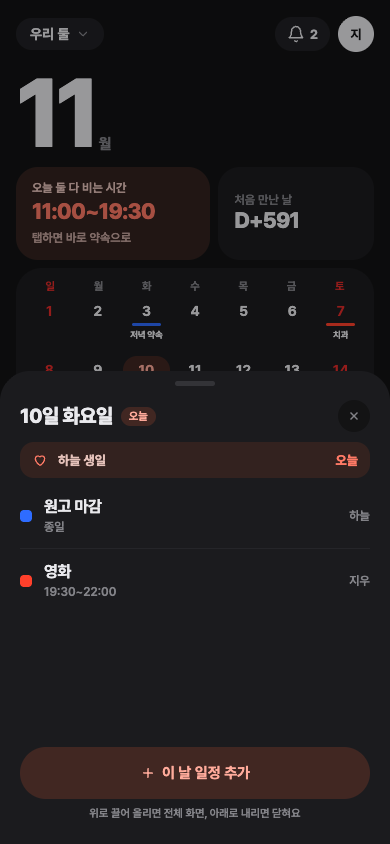
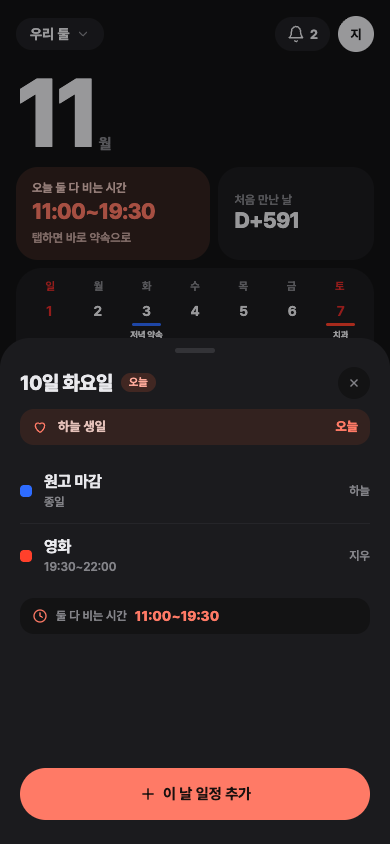
docs: 날짜 탭 = 그날 상세 먼저(폰 시트, 넓은 화면 팝오버) 시안 추가 (#99)
- 어떤 날짜든 탭하면 그날 상세(일정, 기념일, 비는 시간 힌트, 이 날 일정 추가)를 먼저 띄우고 같은 자리에서 빠른 추가로 전환
- phone 은 바텀 시트, fold/pc 는 날짜 칸 옆 팝오버. 오른쪽 칸은 개요로 바꾸는 안을 권장
- 열림 상태를 pushState 로 쌓아 뒤로가기로 닫는 규칙 (#81 과 공존)
- 시안: phone 일정/빈 날/빠른 추가 라이트/다크, 넓은 화면 일정/빈 날/빠른 추가, PC

diff --git a/docs/설계/img/폴더블-시안.html b/docs/설계/img/폴더블-시안.html
@@ -1,6 +1,6 @@
 <!doctype html><html lang="ko"><head><meta charset="utf-8"><meta name="viewport" content="width=device-width,initial-scale=1">
 <title>폴더블 시안</title>
-<!-- #99 폴더블(펼친 화면 600~1023px) 시안. 주소 해시로 프레임 선택: #duo-cal, #duo-detail, #duo-free, #duo-form, #fold-cal (+ ?dark) -->
+<!-- #99 폴더블 시안. ?f= 로 프레임 선택: duo-cal, duo-detail, duo-free, duo-form, fold-cal, phone-sheet|empty|add, wide-day|empty|add, pc-day (+ &dark) -->
 <link rel="stylesheet" href="https://cdn.jsdelivr.net/gh/orioncactus/pretendard@v1.3.9/dist/web/variable/pretendardvariable-dynamic-subset.min.css">
 <style>
 :root{--bg:#F4F3F1;--tile:#FFFFFF;--ink:#26252A;--mute:#6C6C70;--soft:#555;--faint:#C7C7CC;--line:#ECEBE8;--acc:#FF3D1F;
@@ -119,6 +119,29 @@ html.dark .ph .bell{background:rgba(40,40,46,.8)}.ph .bell svg{width:18px;height
 .sheet .sh{display:flex;align-items:center;gap:8px}.sheet .sh h4{font-size:20px;font-weight:800;letter-spacing:-.03em}
 .sheet .x{margin-left:auto;width:32px;height:32px;border-radius:50%;background:var(--bg);display:grid;place-items:center;font-size:16px;color:var(--mute)}
 .sheet .hint{font-size:11px;color:var(--mute);font-weight:600;text-align:center;margin-top:8px}
+/* 날짜 상세 공통 (시트, 팝오버) */
+.dhead{display:flex;align-items:center;gap:8px}.dhead h4{font-size:20px;font-weight:800;letter-spacing:-.03em}
+.xbtn{margin-left:auto;width:32px;height:32px;border-radius:50%;background:var(--bg);display:grid;place-items:center;color:var(--mute)}.xbtn svg{width:16px;height:16px}
+.fh{display:flex;align-items:center;gap:8px;background:var(--bg);border-radius:14px;padding:10px 12px;font-size:12px;font-weight:600;color:var(--mute)}
+.fh b{color:var(--hl-time);font-size:14px;font-weight:800}.fh svg{width:16px;height:16px;color:var(--hl-time)}
+.empty{flex:1;display:flex;flex-direction:column;align-items:center;justify-content:center;gap:8px;text-align:center;padding:10px 0;color:var(--mute);font-size:13px;font-weight:600}
+.empty .ring{width:52px;height:52px;border-radius:50%;background:var(--today-bg);color:var(--sel-ink);display:grid;place-items:center}.empty .ring svg{width:24px;height:24px}
+.empty b{color:var(--ink);font-size:16px;font-weight:800;letter-spacing:-.02em}
+.addp{height:52px;flex:none;border-radius:999px;background:var(--btn);color:var(--on-btn);font-size:15px;font-weight:700;display:flex;align-items:center;justify-content:center;gap:6px;margin-top:auto}.addp svg{width:18px;height:18px}
+.qin{height:52px;border-radius:14px;background:var(--bg);display:flex;align-items:center;padding:0 14px;font-size:17px;font-weight:700;color:var(--ink);border:2px solid var(--pri)}
+.qin i{width:2px;height:20px;background:var(--pri);margin-left:2px}
+.qrow{display:flex;justify-content:space-between;align-items:center;font-size:14px;font-weight:700;padding:4px 2px}
+.qrow .tgl{width:44px;height:26px;border-radius:999px;background:var(--faint);position:relative}.qrow .tgl:after{content:"";position:absolute;left:3px;top:3px;width:20px;height:20px;border-radius:50%;background:#fff}
+.qt{display:grid;grid-template-columns:1fr auto 1fr;gap:6px;align-items:center;color:var(--mute)}.qt span{background:var(--bg);border-radius:14px;padding:12px;font-size:15px;font-weight:800;color:var(--ink);text-align:center}.qt svg{width:16px;height:16px}
+.qbtn{display:flex;gap:6px;margin-top:auto}.qbtn span{height:52px;border-radius:999px;display:grid;place-items:center;font-size:15px;font-weight:700;flex:1;background:var(--bg)}.qbtn .p{flex:1.6;background:var(--btn);color:var(--on-btn)}
+.pop{position:fixed;width:340px;background:var(--tile);border:1px solid var(--line);border-radius:26px;box-shadow:0 12px 40px rgba(38,37,42,.16);padding:16px 18px 18px;display:flex;flex-direction:column;gap:10px;z-index:5}
+html.dark .pop{box-shadow:0 12px 40px rgba(0,0,0,.5)}
+.pop .ev{padding:10px 0}.pop .an{margin-top:0}
+.d.ring2{outline:2px solid var(--pri);outline-offset:-2px}
+.up{display:flex;gap:10px;align-items:center;padding:10px 0;border-top:1px solid var(--line)}.up.f{border-top:0}
+.up .dt{width:38px;text-align:center;font-size:11px;color:var(--mute);font-weight:700;line-height:1.2}.up .dt b{display:block;font-size:17px;color:var(--ink);font-weight:800}
+.up i{width:10px;height:10px;border-radius:3px;flex:none}.up .nm{font-size:14px;font-weight:700}.up .nm small{display:block;font-size:11px;color:var(--mute);font-weight:600}
+.sheet .an{margin-top:0}
 /* 표시 */
 .dim{position:fixed;inset:0;pointer-events:none}
 </style></head><body>
@@ -172,15 +195,50 @@ if(F==='duo-cal'||F==='duo-detail'){
 <div class="tile fc"><div class="tg" style="border:0;padding:0">종일<i></i></div><span class="lb">시작</span><div class="trow"><span class="box">11월 10일 (화)</span><span class="box">오전 10:00</span></div>
 <span class="lb">종료</span><div class="trow"><span class="box">11월 10일 (화)</span><span class="box">오전 11:00</span></div><span class="save" style="margin-top:8px">저장</span></div></div></div>`;
 }
-if(F==='phone-sheet'){
-  const app=document.getElementById('app');app.className='ph';
+const X=I.plus.replace('<svg','<svg style="transform:rotate(45deg)"');
+const evRows=`<div><div class="ev first"><i style="background:var(--m2)"></i><div><b>원고 마감</b><span>종일</span></div><span class="who">하늘</span></div>
+<div class="ev"><i style="background:var(--m1)"></i><div><b>영화</b><span>19:30~22:00</span></div><span class="who">지우</span></div></div>`;
+const freeHint=(t)=>`<div class="fh">${I.clock}둘 다 비는 시간 <b>${t}</b></div>`;
+// state: day(일정 있는 날) | empty(빈 날) | add(같은 자리에서 빠른 추가로 바뀜)
+function dayBody(state){
+  if(state==='day') return `<div class="dhead"><h4>10일 화요일</h4><span class="badge">오늘</span><span class="xbtn">${X}</span></div>${anniv}${evRows}${freeHint('11:00~19:30')}<span class="addp">${I.plus}이 날 일정 추가</span>`;
+  if(state==='empty') return `<div class="dhead"><h4>12일 목요일</h4><span class="xbtn">${X}</span></div>${freeHint('09:00~14:00, 16:00~')}<div class="empty"><span class="ring">${I.cal}</span><b>아직 일정이 없어요</b>이 날 함께할 일을 바로 적어 보세요</div><span class="addp">${I.plus}이 날 일정 추가</span>`;
+  return `<div class="dhead"><span class="back">${I.l}</span><h4>12일 목요일에 추가</h4><span class="xbtn">${X}</span></div>
+  <div class="qin">저녁 산책<i></i></div><div class="qrow">종일<span class="tgl"></span></div>
+  <div class="qt"><span>오후 4:00</span>${I.arr}<span>오후 6:00</span></div><div class="qbtn"><span>자세히</span><span class="p">저장</span></div>`;
+}
+const app=document.getElementById('app');
+if(F.startsWith('phone-')){
+  const st=F.slice(6);
+  const state=st==='sheet'?'day':st;
+  app.className='ph';
   app.innerHTML=`<div class="ptop"><span class="pill">우리 둘 ${I.down}</span><span style="display:flex;gap:8px;align-items:center"><span class="bell">${I.bell}2</span><span class="av" style="margin:0">지</span></span></div>
   <div class="bigm"><b>11</b><span>월</span></div><div class="tiles">${hl}${dd}</div>${grid()}
   <div class="scrim"></div>
-  <div class="sheet" role="dialog"><div class="grab"></div><div class="sh"><h4>10일 화요일</h4><span class="badge">오늘</span><span class="x">${I.plus.replace('<svg','<svg style="width:16px;height:16px;transform:rotate(45deg)"')}</span></div>
-  ${anniv}
-  <div class="ev first" style="margin-top:6px"><i style="background:var(--m2)"></i><div><b>원고 마감</b><span>종일</span></div><span class="who">하늘</span></div>
-  <div class="ev"><i style="background:var(--m1)"></i><div><b>영화</b><span>19:30~22:00</span></div><span class="who">지우</span></div>
-  <span class="add" style="height:52px;font-size:15px">${I.plus}이 날 일정 추가</span><div class="hint">위로 끌어 올리면 전체 화면, 아래로 내리면 닫혀요</div></div>`;
-}else document.getElementById('app').innerHTML=rail+main;
+  <div class="sheet" role="dialog" style="gap:10px;height:${state==='day'?'60%':'54%'}"><div class="grab" style="margin-bottom:4px"></div>${dayBody(state)}</div>`;
+}else if(F.startsWith('wide-')||F.startsWith('pc-')){
+  const state=F.split('-')[1];
+  const isPc=F.startsWith('pc-');
+  const overview=`<div class="tile day"><h4>다가오는 일정</h4>
+  <div class="up f" style="margin-top:4px"><span class="dt">수<b>11</b></span><i style="background:var(--m1)"></i><span class="nm">부모님 댁<small>종일, 지우</small></span></div>
+  <div class="up"><span class="dt">금<b>13</b></span><i style="background:var(--m2)"></i><span class="nm">요가<small>07:00~08:00, 하늘</small></span></div>
+  <div class="up"><span class="dt">화<b>24</b></span><i style="background:var(--m1)"></i><span class="nm">제주 여행<small>24일~26일, 지우</small></span></div>
+  <h4 style="margin-top:12px">이번 주 빈 시간</h4>${['수 11/11 09:00~23:00','목 11/12 09:00~14:00'].map(t=>`<div class="sl" style="margin-top:8px"><b style="font-size:14px">${t}</b></div>`).join('')}</div>`;
+  const side=isPc?`<aside class="rail" style="align-items:stretch;padding:26px 16px;gap:6px"><div style="display:flex;gap:10px;align-items:center;font-weight:800;font-size:18px;padding:0 8px 22px"><div class="sym" style="margin:0"><i></i><i></i><i></i></div>언제볼까</div>
+  ${[['cal','달력',1],['clock','빈 시간 찾기'],['heart','기념일'],['bell','새 소식'],['team','팀 설정']].map(([k,t,on])=>`<span style="display:flex;gap:10px;align-items:center;padding:10px 12px;border-radius:14px;font-size:14px;font-weight:600;${on?'background:var(--tile)':''}">${I[k].replace('<svg','<svg style="width:18px;height:18px"')}${t}</span>`).join('')}
+  <span class="av" style="margin-top:auto">지</span></aside>`:rail;
+  if(isPc)app.style.gridTemplateColumns='232px minmax(0,1fr)';
+  app.innerHTML=side+`<div class="body"${isPc?' style="padding:26px 22px 22px 0"':''}>${topBar(monthNav)}<div class="panes" style="--pane:${isPc?'320px':'300px'}">${isPc?gridChips():grid()}<div class="pane">${hl}${overview}</div></div></div>`;
+  const dayN=state==='day'?10:12;
+  const cell=[...document.querySelectorAll('.cal .grid .d')][dayN-1];
+  cell.classList.add('ring2');
+  const r=cell.getBoundingClientRect();
+  const pop=document.createElement('div');pop.className='pop';pop.setAttribute('role','dialog');
+  pop.innerHTML=dayBody(state).replace('class="empty"','class="empty" style="flex:none;padding:18px 0"');document.body.appendChild(pop);
+  pop.querySelectorAll('.addp,.qbtn').forEach(e=>e.style.marginTop='4px');
+  const h=pop.offsetHeight;
+  let left=r.right+8;if(left+340>innerWidth-8)left=r.left-8-340;
+  const top=Math.max(12,Math.min(r.top-10,innerHeight-12-h));
+  pop.style.left=left+'px';pop.style.top=top+'px';
+}else app.innerHTML=rail+main;
 </script></body></html>

diff --git a/docs/설계/폴더블.md b/docs/설계/폴더블.md
@@ -1,8 +1,8 @@
-# 폴더블 레이아웃 (펼친 화면 2단, 폰 날짜 시트)
+# 폴더블 레이아웃 (펼친 화면 2단, 날짜 탭 = 그날 상세)
 
 - 이슈: #99
 - 상태: **제안 (미확정)**. 사용자에게 시안을 보이고 확정한 뒤 프론트 구현
-- 시안: `docs/설계/img/폴더블-시안.html` (`?f=duo-cal|duo-detail|duo-free|duo-form|fold-cal|phone-sheet`, `&dark`)
+- 시안: `docs/설계/img/폴더블-시안.html` (`?f=` 로 프레임 선택: `wide-day|wide-empty|wide-add|pc-day|phone-sheet|phone-empty|phone-add|duo-cal|duo-detail|duo-free|duo-form|fold-cal`, `&dark`)
 - 현재 화면 캡처: `docs/QA/img/fold-before-*.png`, 시안 렌더: `docs/설계/img/fold-proposal-*.png`
 
 ## 1. 대상 기기와 CSS 뷰포트
@@ -34,13 +34,13 @@ CSS 뷰포트는 제조사가 공개하지 않는다. 아래는 공개 해상도
 | P4 | 일정 작성 | 메모, 저장 버튼이 탭과 + 버튼 밑으로 숨는다. 작성 화면에서도 + 버튼이 떠 있다 | `fold-before-duo-open-form.png` |
 | P5 | 빈 시간 찾기 | 조건 카드와 결과가 한 줄로 쌓여 결과가 첫 화면에 거의 안 보인다 (폴드 세로는 높이 덕에 보이지만 좌우가 빔) | `fold-before-fold-open-free.png` |
 | P6 | 폴드 가로 1092 | PC 배치로 넘어가 동작은 하지만 사이드바 232 + 우측 320 을 빼면 달력이 500px 정도라 칩 제목이 "저...", "치..." 로 잘린다 | `fold-before-fold-open-land-calendar-light.png` |
-| P7 | 커버 화면 (412~475) | 지금 모바일 배치 그대로라 문제 없다. 다만 날짜 목록이 달력 아래에 있어 스크롤해야 보인다 (5장 날짜 시트로 해결) | `fold-before-fold-cover-*.png`, `fold-before-duo-cover-*.png` |
+| P7 | 커버 화면 (412~475) | 지금 모바일 배치 그대로라 문제 없다. 다만 날짜 목록이 달력 아래에 있어 스크롤해야 보인다 (5장 날짜 상세 시트로 해결) | `fold-before-fold-cover-*.png`, `fold-before-duo-cover-*.png` |
 
 ## 3. 브레이크포인트
 
 | 이름 | 조건 | 배치 | 해당 기기 |
 |------|------|------|----------|
-| phone | `<600px` | 지금 모바일 그대로 + **날짜 바텀 시트**(5) | 폰, 폴드 커버, 아이폰 듀오 커버 |
+| phone | `<600px` | 지금 모바일 그대로 + **날짜 상세 바텀 시트**(5) | 폰, 폴드 커버, 아이폰 듀오 커버 |
 | fold (신설) | `600px ≤ w < 1024px` | **레일 + 2단** (4) | 폴드 펼침 세로, 폴드8 펼침, 아이폰 듀오 펼침(가로, 세로) |
 | pc | `≥1024px` | 지금 PC 그대로 | PC, 폴드 펼침 가로, 트라이폴드 |
 
@@ -58,15 +58,15 @@ CSS 뷰포트는 제조사가 공개하지 않는다. 아래는 공개 해상도
 - 선택 항목은 아이콘 뒤에 `--tile` 알약 (52×32). 아이콘 20px, 글자 10.5px 700 (떠 있는 탭과 같은 크기)
 - 떠 있는 탭과 + 버튼은 숨긴다 (P2, P4 해결). 본문 하단 여백도 탭 높이만큼 두지 않는다
 - 상단 줄: 팀 이름 알약(팀 전환 시트 그대로) + 화면 제목 또는 월 표시. 새 소식 알약과 프로필은 레일로 옮겼으니 상단에서 뺀다
-- PC 사이드바는 ≥1024 에서 그대로. 1024~1199 에서도 레일을 쓸지는 열린 질문 Q3 (P6)
+- PC 사이드바는 ≥1024 에서 그대로. 1024~1199 에서도 레일을 쓸지는 열린 질문 Q4 (P6)
 
 ### 4-2 달력
 - 상단 줄: 팀 알약, 월 숫자 44px(`.82` 행간) + "월 2026", 오른쪽 오늘 / ◀ ▶
-- 2단: 왼쪽 달력 타일(남는 폭 전부, 6주 그리드가 높이를 채움) | 오른쪽 칸 332px (폭 ≥ 960 이면 360px)
-- 오른쪽 칸 위에서부터: 오늘 비는 시간 타일, D-day 타일(`short` 이면 숨김), **선택 날짜 칸**(5-2 와 같은 내용: 기념일 줄, 일정 목록, "이 날 일정 추가")
+- 2단: 왼쪽 달력 타일(남는 폭 전부, 6주 그리드가 높이를 채움) | 오른쪽 칸 300px (폭 ≥ 960 이면 340px)
+- 오른쪽 칸은 **개요**: 오늘 비는 시간 타일, 다가오는 일정 3~5건, 이번 주 빈 시간 2~3줄. 선택 날짜 내용은 칸에 두지 않고 날짜 팝오버(5장)로 보여 준다 (권장안 A, 5-1)
+- `short` 가 아니고 높이가 남으면(폴드 세로) D-day 타일을 개요 맨 위에 둔다
 - 날짜 칸 모양: 칸 높이 < 110px 이면 모바일처럼 막대 + 9px 제목, ≥ 110px(폴드 세로) 이면 PC 처럼 제목 칩. 칸 높이는 그리드가 정하므로 `@container` 쿼리로 고른다
-- 일정 행을 누르면 오른쪽 칸이 **일정 상세**로 바뀐다 (뒤로 화살표로 날짜 칸 복귀). 모달 없음 (P3). 시안 `fold-proposal-duo-detail-light.png`, `-dark.png`
-- 빈 날짜 칸 재탭 빠른 추가: PC 처럼 칸 옆 팝오버 340px (`QuickAddPopover`). 890 폭에서도 들어간다
+- 시안: `fold-proposal-wide-day-light.png`, `-dark.png` (권장안 A). `fold-proposal-duo-cal-*.png`, `fold-proposal-fold-cal-*.png`, `fold-proposal-duo-detail-*.png` 는 대안 B(팝오버 없이 오른쪽 칸이 선택 날짜와 상세를 보여 줌)
 
 ### 4-3 빈 시간 찾기
 - 2단 같은 폭: 왼쪽 조건 카드(위에 붙음), 오른쪽 결과 목록(칸 안에서 스크롤). 시안 `fold-proposal-duo-free-light.png` (P5)
@@ -78,39 +78,57 @@ CSS 뷰포트는 제조사가 공개하지 않는다. 아래는 공개 해상도
 ### 4-5 기념일, 새 소식, 팀 설정, 내 정보
 - 레일만 적용하고 본문은 가운데 640px 1단. 2단으로 나눌 내용이 없다
 
-## 5. 날짜 탭 = 그날 상세 (모든 폭)
+## 5. 날짜 탭 = 그날 상세 먼저 (모든 폭)
 
-사용자 요청: 달력에서 날짜를 누르면 그날의 일정, 기념일, "이 날 일정 추가" 를 보여 주고, 일정을 누르면 일정 상세로.
+사용자 요청: 달력에서 **어떤 날짜든**(빈 날 포함, PC와 펼친 화면 포함) 누르면 바로 빠른 추가로 가지 않고 먼저 그날의 상세를 띄운다. 상세에는 그날 일정, 기념일, 비는 시간 힌트, "이 날 일정 추가" 가 있고, 추가를 누르면 **같은 자리에서** 빠른 추가 폼으로 바뀐다. 일정을 누르면 같은 자리에서 일정 상세로.
 
-### 5-1 폭별 동작
-| 배치 | 날짜 탭 | 일정 탭 | 이 날 일정 추가 |
-|------|--------|--------|----------------|
-| phone | **날짜 바텀 시트** 열기 | 시트 안에서 상세로 전환 (시트 유지, 뒤로 화살표) | 시트 안 버튼 → 빠른 추가 시트 (`QuickAddSheet`) |
-| fold | 선택만 바꾸고 오른쪽 칸 갱신. 모달 없음 | 오른쪽 칸이 상세로 | 칸 안 버튼 → 빠른 추가 팝오버 |
-| pc | 지금 그대로 (선택 + 빈 곳 클릭 팝오버, 우측 패널) | 지금 그대로 | 지금 그대로 |
+### 5-1 폭별 표면과 오른쪽 칸 처리
+| 배치 | 날짜 탭 | 표면 | 오른쪽 칸 |
+|------|--------|------|----------|
+| phone (<600, 커버 포함) | 날짜 상세 | **바텀 시트** (반 높이, 끌어 올리면 전체) | 없음. 달력 아래 날짜 목록도 없앤다 |
+| fold (600~1023) | 날짜 상세 | **날짜 칸 옆 팝오버** 340px (#46 빠른 추가 팝오버 자리 규칙과 모양 재사용) | 개요 (다가오는 일정, 이번 주 빈 시간) |
+| pc (≥1024) | 날짜 상세 | 같은 팝오버 | 개요 |
 
-- phone 에서 지금의 "선택된 날짜 재탭 = 빠른 추가 시트" 는 없어진다. 추가는 시트 안 버튼이나 + 버튼으로 (열린 질문 Q1)
-- phone 의 달력 아래 날짜 목록은 없앤다. 달력 화면이 한 화면에 들어간다
+**권장안 A: 오른쪽 칸은 개요로 바꾸고 날짜 내용은 팝오버에만 둔다.**
+- 이유 1: 칸과 팝오버가 같은 날짜 목록을 동시에 보여 주면 중복이고, 어느 쪽을 봐야 하는지 흐려진다
+- 이유 2: 탭하면 바로 그 자리에 뜨는 표면이 모든 폭에서 같아진다 (폰 시트 = 넓은 화면 팝오버, 내용과 순서 동일). 구현도 `DayPanel` 한 컴포넌트를 시트와 팝오버에 꽂으면 된다
+- 이유 3: 칸이 날짜에 묶이지 않으면 "다가오는 일정" 처럼 달력에서 안 보이는 정보를 줄 수 있다
+- 대안 B (팝오버 없이 칸만): 모달이 없어 가볍지만, 사용자가 원한 "누르면 그날 상세가 뜬다" 와 폰과의 일관성을 잃는다. B 를 고르면 시안 `fold-proposal-duo-cal-*.png` 그대로
 
-### 5-2 바텀 시트 (phone)
-시안: `fold-proposal-phone-sheet-light.png`, `-dark.png` (390×844)
+### 5-2 상세 내용과 상태 (시트, 팝오버 공통 `DayPanel`)
+| 상태 | 내용 | 시안 |
+|------|------|------|
+| 일정 있는 날 | 머리 "10일 화요일" + 오늘 배지 + 닫기, 기념일 줄(옅은 코랄 `--hl-tile`, 하트 선 아이콘, "오늘" 또는 "D-3"), 일정 행(멤버 색 + 제목 + 시간 + 등록자), 비는 시간 힌트 한 줄, 하단 주 버튼 "이 날 일정 추가"(`--btn`, 52px) | phone `fold-proposal-phone-sheet-light.png` `-dark.png`, 넓은 화면 `fold-proposal-wide-day-light.png` `-dark.png`, PC `fold-proposal-pc-day-light.png` |
+| 빈 날 | 머리, 비는 시간 힌트, 가운데 빈 상태(코랄 원 + 달력 선 아이콘, "아직 일정이 없어요", "이 날 함께할 일을 바로 적어 보세요"), 같은 주 버튼 | `fold-proposal-phone-empty-light.png` `-dark.png`, `fold-proposal-wide-empty-light.png` |
+| 빠른 추가 | 같은 표면이 바뀐다: 머리 "← 12일 목요일에 추가", 제목 입력(자동 포커스), 종일 토글, 시작 → 종료, "자세히" + "저장". 뒤로 화살표는 날짜 상세로. 필드와 저장 동작은 #46 `QuickAdd` 그대로 | `fold-proposal-phone-add-light.png` `-dark.png`, `fold-proposal-wide-add-light.png` |
+| 일정 상세 | 일정 행을 누르면 같은 표면이 일정 상세(지금 상세와 같은 내용: 등록자, 제목, 시간, 수정/복제/삭제)로 바뀐다. 뒤로 화살표는 날짜 상세로 | 내용은 `fold-proposal-duo-detail-*.png` 와 같고 표면만 시트/팝오버 |
 
+- 비는 시간 힌트: 팀 멤버가 2명 이상일 때만. 그날 하루 `free-slots`(09:00~23:00, 최소 1시간) 1회 호출, 300ms 지연 없이 열 때 시작, 오는 동안 한 줄 스켈레톤, 실패하면 줄을 숨긴다(오류 문구 없음). 오늘은 달력 위 타일이 이미 가진 값을 재사용
+- 일정 칩(PC, 폴드 세로)을 누르면 팝오버가 일정 상세 상태로 바로 열린다 (뒤로 = 그날 상세). 지금처럼 오른쪽 칸에 상세를 띄우지 않는다
+- + 버튼(떠 있는 + / 레일 + / PC "일정 추가")은 지금처럼 새 일정 폼으로 바로 간다 (날짜 상세를 거치지 않음)
+
+### 5-3 바텀 시트 (phone)
 | 항목 | 내용 |
 |------|------|
-| 내용 | 머리 "10일 화요일" + 오늘 배지 + 닫기, 기념일 줄(옅은 코랄 `--hl-tile`, 하트 선 아이콘, "D-day" 또는 "오늘"), 일정 행(지금 목록과 같은 모양), 하단 "이 날 일정 추가" 52px 알약(`--today-bg`). 빈 날은 기존 빈 상태 문구 |
-| 높이 | 처음 열 때 화면의 56% (반), 손잡이를 위로 끌면 전체(위 여백 = safe-area + 12px), 아래로 끌거나 배경 탭하면 닫힘. 내용이 반 높이를 넘으면 시트 안 스크롤 |
-| 모양 | 위 모서리 30px, `--tile`, 배경 `rgba(0,0,0,.35)`, 손잡이 40×5 `--faint`. 모션 200ms (`prefers-reduced-motion` 이면 즉시) |
-| 접근성 | `role=dialog` `aria-modal` + 제목 연결, 열면 제목에 포커스, Tab 은 시트 안에서 돈다, Esc 닫기, 닫으면 누른 날짜 칸으로 포커스 복귀. 끌기 대신 쓸 수 있게 "전체 보기" 는 손잡이 버튼(`aria-expanded`)으로도 |
-| 시트 안 이동 | 일정 행 → 같은 시트 안에서 상세로 바뀜(뒤로 화살표). 상세의 수정/복제는 지금처럼 페이지 이동 |
+| 높이 | 처음 화면의 약 56~60% (반), 손잡이를 위로 끌면 전체(위 여백 = safe-area + 12px), 아래로 끌거나 배경 탭하면 닫힘. 내용이 넘치면 시트 안 스크롤. 빠른 추가 상태에서 키보드가 올라오면 `visualViewport` 높이에 맞춰 주 버튼이 키보드 위에 남는다 |
+| 모양 | 위 모서리 30px, `--tile`, 배경 `rgba(0,0,0,.35)`, 손잡이 40×5 `--faint`. 상태 전환은 내용만 120ms 교차 페이드, 시트 높이 변화 200ms (`prefers-reduced-motion` 이면 즉시) |
+| 접근성 | `role=dialog` `aria-modal` + 제목 연결, 열면 제목에(빠른 추가는 입력에) 포커스, Tab 은 시트 안에서 돈다, Esc 닫기, 닫으면 누른 날짜 칸으로 포커스 복귀. 끌기 대신 손잡이 버튼(`aria-expanded`)으로도 전체/반 전환 |
 
-### 5-3 뒤로가기와 주소 (#81 과의 관계)
+### 5-4 팝오버 (fold, pc)
+- 위치: #46 `QuickAddPopover` 규칙 그대로. 날짜 칸 오른쪽 8px, 자리가 없으면 왼쪽, 위아래는 화면 안으로 밀어 넣음. 폭 340px, 모서리 26px, `--line` 테두리 + `--pop-shadow`. 누른 날짜 칸에 `--pri` 2px 테두리
+- 배경을 어둡게 하지 않는다(비모달처럼 보이되 포커스는 가둠). 바깥 클릭, Esc 로 닫고 날짜 칸으로 포커스 복귀. 다른 날짜 칸을 누르면 닫고 그 날짜로 다시 연다
+- 상태 전환(날짜 → 빠른 추가, 날짜 → 일정 상세)은 팝오버 안에서. 높이가 바뀌면 위치를 다시 계산
+- 폭이 바뀌어(접기) phone 이 되면 같은 상태를 바텀 시트로 옮긴다
+
+### 5-5 뒤로가기와 주소 (#81 과의 관계)
 - 지금: 선택 날짜는 `?date=`(오늘이면 생략), 보던 달은 `?month=` 를 `history.replaceState` 로 남긴다 (#81). 이 규칙은 그대로 둔다
-- 시트를 열 때 **`history.pushState`** 로 `?date=YYYY-MM-DD&day=1` 한 칸을 쌓는다. 상세로 들어가면 `&event=<id>` 를 한 칸 더 쌓는다
-- `popstate` 에서 주소의 `day`, `event` 로 시트 상태를 맞춘다. 안드로이드 뒤로 버튼과 iOS 뒤로 쓸기 = 상세 → 날짜 시트 → 닫힘 순서
-- 닫기 버튼, 배경 탭, 아래로 끌기, Esc 는 직접 상태를 바꾸지 않고 `history.back()` 을 부른다 (쌓은 칸을 지워 앞으로가기에 유령 상태가 남지 않게). 시트가 쌓은 칸이 아닐 때(새로고침으로 `day=1` 주소에 바로 들어온 경우)는 `replaceState` 로 `day` 를 뗀다
-- 새로고침이나 공유 주소의 `day=1` 은 phone 에서만 시트를 연다. fold/pc 는 `day` 를 무시하고 선택 날짜만 쓴다 (오른쪽 칸이 이미 보여 준다)
+- 시트나 팝오버를 열 때 **`history.pushState`** 로 `?date=YYYY-MM-DD&day=1` 한 칸을 쌓는다. 안에서 일정 상세로 가면 `&event=<id>`, 빠른 추가로 가면 `&add=1` 을 한 칸 더 쌓는다
+- `popstate` 에서 주소의 `day`, `event`, `add` 로 표면 상태를 맞춘다. 안드로이드 뒤로 버튼과 iOS 뒤로 쓸기 = 빠른 추가/일정 상세 → 날짜 상세 → 닫힘 순서
+- 닫기 버튼, 배경 탭, 아래로 끌기, 바깥 클릭, Esc 는 쌓은 칸 수만큼 `history.go(-n)` 으로 닫는다 (앞으로가기에 유령 상태가 남지 않게). 쌓은 칸이 없을 때(새로고침으로 `day=1` 주소에 바로 들어온 경우)는 `replaceState` 로 `day` 등을 뗀다
+- 빠른 추가 저장 성공: 표면을 닫고(위와 같은 방식) 토스트 + 그 날짜 선택 (#46 동작 유지)
+- 빠른 추가에 입력이 있는데 뒤로가기: 입력은 버리고 날짜 상세로 (확인 창 없음, 짧은 폼이라 "자세히" 로 넘긴 값만 유지)
+- 새로고침이나 공유 주소의 `day=1` 은 모든 폭에서 상세를 다시 연다. `add=1` 은 새로고침 시 무시(빈 폼을 띄우지 않음)
 - `pushState` 도 #57 과 같은 이유로 state 는 `null` 로 넘긴다 (AppShell + 버튼의 기준 날짜 동기화)
-- 펼치거나 접어 phone ↔ fold 가 바뀌면: 시트가 열려 있었다면 fold 에서는 오른쪽 칸이 같은 날짜, 같은 상세를 보여 주고 시트는 렌더하지 않는다 (주소는 그대로). 다시 접으면 주소대로 시트가 열린다
 
 ## 6. 힌지 (Viewport Segments)
 
@@ -126,13 +144,15 @@ CSS 뷰포트는 제조사가 공개하지 않는다. 아래는 공개 해상도
 | `apps/web/src/app/globals.css` | `--breakpoint-fold: 600px`, `short` 변형, 레일 알약 스타일 |
 | `apps/web/src/lib/useIsDesktop.ts` → `useLayout.ts` | `"phone" \| "fold" \| "pc"`. 기존 호출부 교체 |
 | `apps/web/src/components/AppShell.tsx` | fold 레일(새 `Rail` 컴포넌트), fold 에서 떠 있는 탭과 + 숨김, `max-w-[480px]` 를 fold 에서 해제, 상단 바 정리 |
-| `apps/web/src/screens/CalendarScreen.tsx` | fold 2단 그리드, 오른쪽 칸(날짜/상세 전환), phone 은 목록 대신 날짜 시트, 날짜 칸 막대/칩 전환(`@container`), 시트 주소 동기화(5-3) |
-| `apps/web/src/components/DaySheet.tsx` (신규) | 반/전체 높이 바텀 시트(끌기, 포커스 가둠, Esc, history 연동). 기존 `ui.tsx Sheet` 와 `DetailSheet` 를 이것으로 합칠 수 있음 |
-| `apps/web/src/components/QuickAdd.tsx` | fold 에서도 팝오버 |
+| `apps/web/src/screens/CalendarScreen.tsx` | fold 2단 그리드, 오른쪽 칸을 개요로(다가오는 일정, 이번 주 빈 시간), 날짜 탭 = `DaySheet`/`DayPopover`, 달력 아래 목록 제거, 날짜 칸 막대/칩 전환(`@container`) |
+| `apps/web/src/components/DayPanel.tsx` (신규) | 날짜 상세 내용과 상태(날짜 / 빠른 추가 / 일정 상세) 전환. 시트와 팝오버가 같이 씀 |
+| `apps/web/src/components/DaySheet.tsx`, `DayPopover.tsx` (신규) | 반/전체 높이 바텀 시트(끌기, 포커스 가둠, Esc), 날짜 칸 옆 팝오버. `useDayHistory` 훅으로 5-5 주소 연동. 기존 `DetailSheet` 는 흡수 |
+| `apps/web/src/components/QuickAdd.tsx` | 폼 본문을 `DayPanel` 안에 넣을 수 있게 분리. 날짜 칸 클릭이 바로 빠른 추가를 여는 경로는 없앤다 |
 | `apps/web/src/components/pickers/PickerShell.tsx` | fold 에서도 팝오버 |
 | `apps/web/src/screens/FreeScreen.tsx`, `EventFormScreen.tsx` | fold 2단 |
 | `apps/web/src/screens/AnniversariesScreen.tsx`, `NewsScreen.tsx`, `SettingsScreen.tsx`, `MeScreen.tsx` | fold 에서 가운데 640px (`lg:` 여백 규칙을 `fold:` 로 확장) |
-| `docs/설계/화면흐름.md`, `디자인토큰.md` | 확정 후 브레이크포인트, 날짜 시트, 레일 반영 |
+| `apps/web/src/hooks/useFreeSlots.ts` | 날짜 하루 힌트용 호출 재사용 (새 API 없음) |
+| `docs/설계/화면흐름.md`, `디자인토큰.md` | 확정 후 브레이크포인트, 날짜 상세 표면, 레일, #46 "달력에서 바로 추가" 절 갱신 |
 
 API, 스키마 변경 없음.
 
@@ -143,18 +163,20 @@ API, 스키마 변경 없음.
 | 뷰포트 캡처 | 412×960, 466×678, 616×816, 626×890, 890×626, 984×1092, 1092×984, 1280×800 라이트/다크에서 달력, 상세, 작성, 빈 시간. `fold-after-*.png` 로 `fold-before-*` 와 나란히 |
 | 경계 | 599/600, 1023/1024 에서 배치가 한 번만 바뀌고 가로 스크롤이 없다 |
 | 높이 | 890×550(Safari 주소창 포함 가정)에서 6주 달력과 오른쪽 칸이 스크롤 없이 보인다 |
-| 날짜 시트 | 날짜 탭 → 반 높이, 끌어 올림 → 전체, 아래로/배경/Esc/닫기 → 닫힘. 포커스가 시트 안에서 돌고 닫으면 날짜 칸으로 |
-| 뒤로가기 | 시트 열기 → 상세 → 뒤로 → 날짜 시트 → 뒤로 → 닫힘 → 뒤로 → 이전 화면. 앞으로가기에 유령 시트 없음. `?date=&day=1` 새로고침 시 phone 은 시트, fold 는 칸 |
+| 날짜 상세 | 일정 있는 날, 빈 날, 기념일만 있는 날을 phone 시트와 fold/pc 팝오버로 연다. 추가 → 같은 자리 폼 → 저장 → 닫힘 + 토스트. 일정 → 같은 자리 상세. 시트 끌기(반/전체/닫힘), Esc, 바깥 클릭. 포커스 가둠과 날짜 칸 복귀 |
+| 팝오버 위치 | 맨 오른쪽 열, 맨 아래 줄 날짜에서 화면 밖으로 나가지 않는다. 상태 전환으로 높이가 바뀌어도 화면 안 |
+| 뒤로가기 | 열기 → 빠른 추가(또는 일정 상세) → 뒤로 → 날짜 상세 → 뒤로 → 닫힘 → 뒤로 → 이전 화면. 닫기 버튼으로 닫은 뒤 앞으로가기에 유령 상태 없음. `?date=&day=1` 새로고침 시 다시 열림, `add=1` 은 무시 |
 | 접기/펼치기 | 시트(또는 상세)가 열린 채 폭을 412 ↔ 984 로 바꿔도 같은 날짜와 상세 유지, 오류 없음 |
-| 기존 회귀 | #46 빠른 추가(PC 팝오버), #57 + 버튼 기준 날짜, #81 날짜 복원, #67 피커 |
+| 기존 회귀 | #46 빠른 추가 필드와 저장(진입 경로만 바뀜), #57 + 버튼 기준 날짜, #81 날짜 복원, #67 피커 |
 | 실기기 | 폴드7(또는 8) Chrome, 삼성 인터넷, 아이폰 듀오 Safari 에서 `innerWidth`, `innerHeight`, `devicePixelRatio` 를 기록해 1장 표를 확정값으로 교체 |
 
 ## 9. 열린 질문
 
 | # | 질문 | 권장 |
 |---|------|------|
-| Q1 | phone 에서 "선택된 날짜 재탭 = 빠른 추가" 를 없애고 날짜 탭은 항상 날짜 시트로 갈까 | 예. 같은 탭이 두 동작을 갖는 것보다 시트 안 "이 날 일정 추가" 한 곳이 알기 쉽다. + 버튼은 그대로 |
-| Q2 | fold 구간 내비게이션을 레일로 바꿀까, 떠 있는 탭을 유지할까 | 레일. 아이폰 듀오 가로는 높이 626 이라 탭 86px 가 크고, 폭은 남는다 |
-| Q3 | 1024~1199(폴드 가로 1092)에서 PC 사이드바 대신 레일을 쓸까 | 예. 달력이 156px 넓어져 칩 제목 잘림(P6)이 줄어든다. 1200 이상은 사이드바 유지 |
-| Q4 | 힌지(책 자세) 대응 | 이번 범위에서 제외. Safari 미지원이고 평평하게 펼친 상태가 대부분 |
-| Q5 | 날짜 시트에 "오늘 비는 시간" 도 넣을까 | 넣지 않는다. 달력 위 타일에 이미 있고 시트는 그날 내용만 |
+| Q1 | 넓은 화면에서 오른쪽 칸을 개요로 바꾸고 날짜 내용은 팝오버에만 둘까 (A), 팝오버 없이 칸만 쓸까 (B) | A. 중복이 없고 폰 시트와 같은 동작이 된다 (5-1) |
+| Q2 | 날짜 탭이 항상 상세를 먼저 띄우면 추가가 한 탭 늘어난다. 지금의 "선택된 날짜 재탭 = 빠른 추가"(모바일), "빈 곳 클릭 = 빠른 추가"(PC)를 없애도 될까 | 예. 사용자 요청대로 상세 먼저. 바로 추가는 + 버튼이 맡는다 |
+| Q3 | fold 구간 내비게이션을 레일로 바꿀까, 떠 있는 탭을 유지할까 | 레일. 아이폰 듀오 가로는 높이 626 이라 탭 86px 가 크고, 폭은 남는다 |
+| Q4 | 1024~1199(폴드 가로 1092)에서 PC 사이드바 대신 레일을 쓸까 | 예. 달력이 156px 넓어져 칩 제목 잘림(P6)이 줄어든다. 1200 이상은 사이드바 유지 |
+| Q5 | 비는 시간 힌트를 날짜 상세에 넣을까 | 넣는다. 멤버 2명 이상일 때만, 하루 1회 호출, 실패 시 숨김 (5-2). 서비스 핵심이라 그날 판단에 바로 쓰인다 |
+| Q6 | 힌지(책 자세) 대응 | 이번 범위에서 제외. Safari 미지원이고 평평하게 펼친 상태가 대부분 |

diff --git a/docs/설계/결정기록.md b/docs/설계/결정기록.md
@@ -46,4 +46,4 @@
 | D-39 | 서비스 도메인은 `whenwemeet.day`. 웹 루트, API `api.`, 이미지 `images.` 서브도메인 | `whenwemeet.app`(2021 등록, 타인 운영)과 `.io` 가 선점돼 있음. `.day` 는 일정 서비스와 뜻이 맞고 이름을 바꾸지 않아도 된다. 앱스토어/상표명 충돌은 출시 전 별도 확인 (2026-11-09 사용자 확정) |
 | D-40 | 날짜시각 입력은 오프셋(`Z` 또는 `±HH:mm`) 필수. `2026-11-22T10:00` 처럼 오프셋이 없으면 400 VALIDATION_FAILED (본문과 `from`/`to` 쿼리 공통) | 오프셋 없는 값은 서버 프로세스 시간대로 해석돼 운영 서버 TZ 에 따라 저장값이 9시간씩 달라진다. 추정해 받지 않고 거절해야 결과가 환경과 무관하다 (#61) |
 | D-41 | 로그인 `next` 는 같은 출처 상대 경로 + 쿼리를 허용(512자, fragment 버림, `//`, `\`, 스킴, 제어문자, `%5C` 등 거절. 인증흐름.md 2단계). 웹의 `/_q_/<base64>` 우회는 제거하고, 남은 옛 값은 경로만 살린다. 초대 자동 합류는 `wwm_join_auto` 쿠키 대신 `next=/join/<code>?auto=1` 로 전달하고, 세션 JWT `iat` 가 5분 이내일 때만 확인 없이 합류 | 쿼리를 막아 생긴 경로 우회(#65)가 복잡하고, 쿠키는 카카오 인앱 브라우저처럼 유지되지 않는 환경에서 자동 합류를 놓친다. state 는 OAuth 왕복을 그대로 통과하므로 의도를 싣기에 맞다. 다만 `?auto=1` 만 보면 누군가 보낸 링크로 로그인 사용자가 확인 없이 합류하므로, 방금 발급된 세션(iat)으로 "이 링크에서 막 로그인했다" 를 대신 판정한다 (#71) |
-| D-42 | **(제안, 미확정)** 브레이크포인트를 phone `<600` / fold `600~1023` / pc `≥1024` 셋으로. fold 는 레일 + 2단(달력 \| 선택 날짜 칸), phone 은 날짜 탭 = 반 높이 바텀 시트(`pushState` 로 뒤로가기 닫힘). 힌지(Viewport Segments)는 기본 배치에 쓰지 않음. 상세는 `폴더블.md` | 폴드, 아이폰 듀오 펼친 화면(약 616~984px, 거의 정사각형)이 지금은 480px 1단으로 보여 절반이 빈다. Viewport Segments 는 Safari 미지원이고 평평하게 펼치면 세그먼트가 1개다 (#99) |
+| D-42 | **(제안, 미확정)** 브레이크포인트를 phone `<600` / fold `600~1023` / pc `≥1024` 셋으로. fold 는 레일 + 2단(달력 \| 개요 칸). 달력 날짜 탭은 모든 폭에서 그날 상세를 먼저 띄운다(phone 바텀 시트, fold/pc 날짜 칸 옆 팝오버), "이 날 일정 추가" 는 같은 자리에서 빠른 추가로 바뀐다. 열림 상태는 `pushState` 로 쌓아 뒤로가기로 닫는다. 힌지(Viewport Segments)는 기본 배치에 쓰지 않음. 상세는 `폴더블.md` | 폴드, 아이폰 듀오 펼친 화면(약 616~984px, 거의 정사각형)이 지금은 480px 1단으로 보여 절반이 빈다. 날짜를 누르면 바로 추가 폼이 뜨는 대신 그날 내용을 먼저 보고 싶다는 사용자 요청. Viewport Segments 는 Safari 미지원이고 평평하게 펼치면 세그먼트가 1개다 (#99) |
